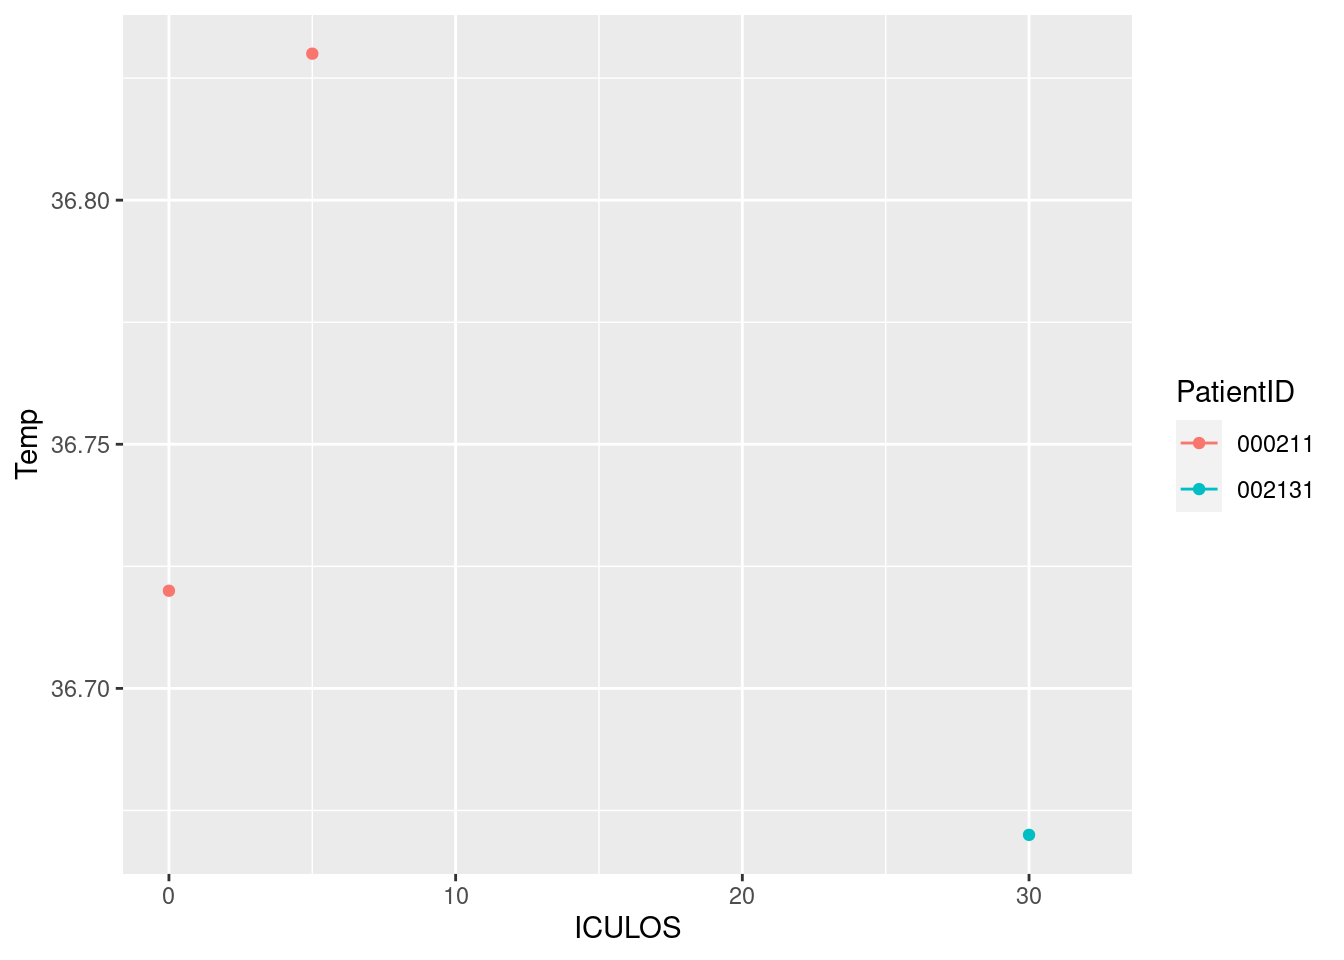
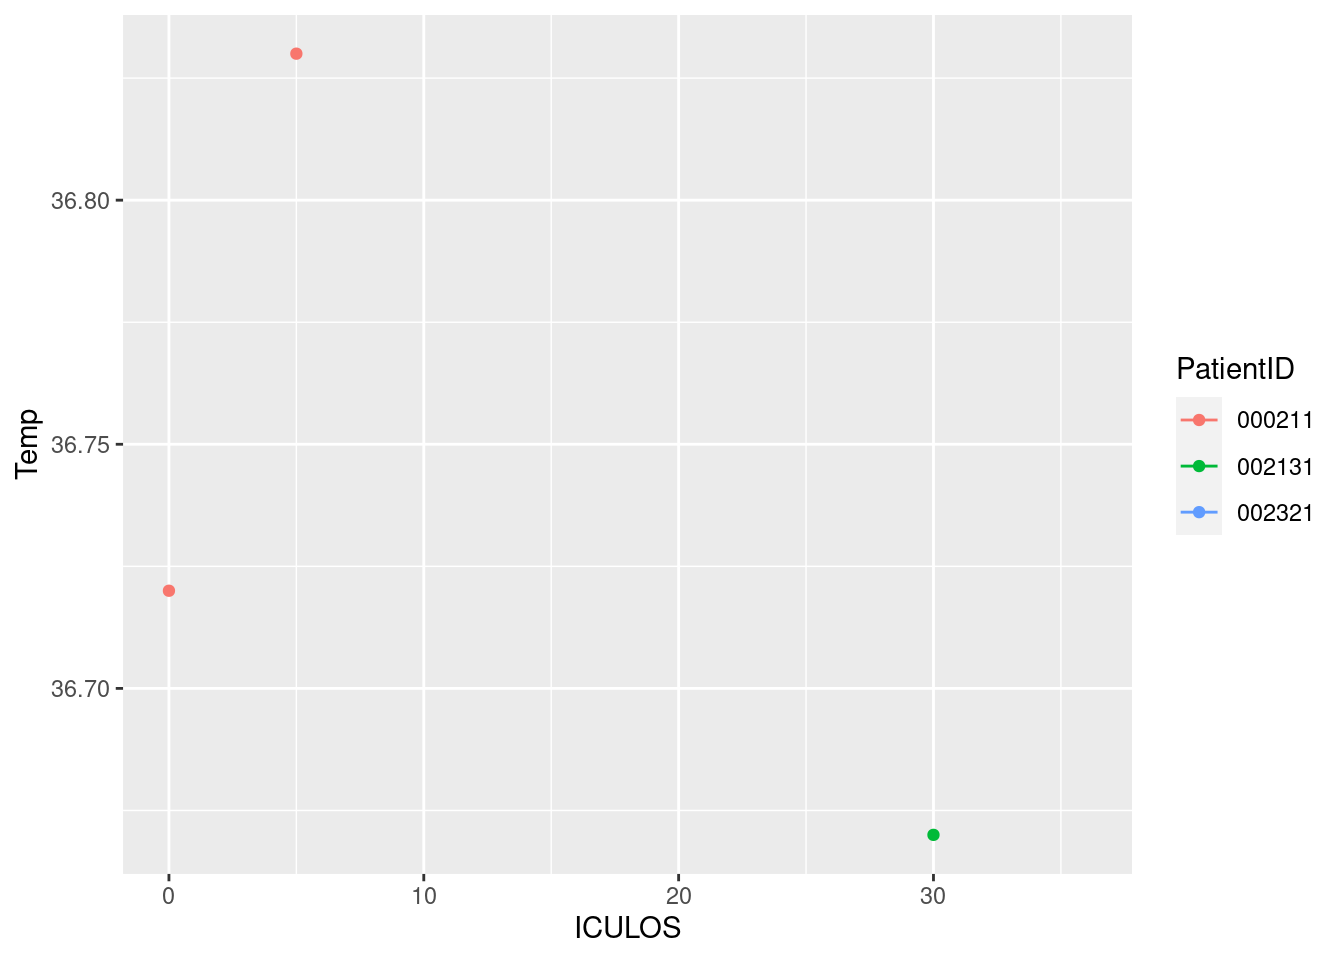
Updated report

diff --git a/a7qmd.html b/a7qmd.html
@@ -80,7 +80,7 @@ ul.task-list li input[type="checkbox"] {
 <h2 class="anchored" data-anchor-id="current-date-and-time">Current date and time</h2>
 <div class="cell">
 <div class="cell-output cell-output-stdout">
-<pre><code>[1] "2023-04-11 04:19:30 UTC"</code></pre>
+<pre><code>[1] "2023-04-11 05:16:00 UTC"</code></pre>
 </div>
 </div>
 </section>
@@ -109,6 +109,12 @@ ul.task-list li input[type="checkbox"] {
 <td style="text-align: right;">81</td>
 <td style="text-align: right;">NA</td>
 <td style="text-align: right;">15</td>
+</tr>
+<tr class="odd">
+<td style="text-align: left;">002321</td>
+<td style="text-align: right;">57</td>
+<td style="text-align: right;">NA</td>
+<td style="text-align: right;">11</td>
 </tr>
 </tbody>
 </table>
@@ -164,7 +170,7 @@ ul.task-list li input[type="checkbox"] {
 <tr class="even">
 <td style="text-align: left;">000525</td>
 <td style="text-align: right;">0</td>
-<td style="text-align: right;">-0.5</td>
+<td style="text-align: right;">-0.50</td>
 <td style="text-align: right;">1</td>
 </tr>
 <tr class="odd">
@@ -182,20 +188,20 @@ ul.task-list li input[type="checkbox"] {
 <tr class="odd">
 <td style="text-align: left;">000878</td>
 <td style="text-align: right;">3</td>
-<td style="text-align: right;">0.0</td>
+<td style="text-align: right;">0.00</td>
 <td style="text-align: right;">-1</td>
 </tr>
 <tr class="even">
 <td style="text-align: left;">000939</td>
-<td style="text-align: right;">-3</td>
+<td style="text-align: right;">3</td>
 <td style="text-align: right;">NA</td>
-<td style="text-align: right;">-1</td>
+<td style="text-align: right;">5</td>
 </tr>
 <tr class="odd">
 <td style="text-align: left;">001080</td>
-<td style="text-align: right;">-12</td>
 <td style="text-align: right;">NA</td>
-<td style="text-align: right;">-4</td>
+<td style="text-align: right;">NA</td>
+<td style="text-align: right;">NA</td>
 </tr>
 <tr class="even">
 <td style="text-align: left;">001200</td>
@@ -212,7 +218,7 @@ ul.task-list li input[type="checkbox"] {
 <tr class="even">
 <td style="text-align: left;">001708</td>
 <td style="text-align: right;">3</td>
-<td style="text-align: right;">0.1</td>
+<td style="text-align: right;">0.10</td>
 <td style="text-align: right;">-2</td>
 </tr>
 <tr class="odd">
@@ -223,9 +229,9 @@ ul.task-list li input[type="checkbox"] {
 </tr>
 <tr class="even">
 <td style="text-align: left;">001842</td>
-<td style="text-align: right;">1</td>
+<td style="text-align: right;">-4</td>
 <td style="text-align: right;">NA</td>
-<td style="text-align: right;">2</td>
+<td style="text-align: right;">-9</td>
 </tr>
 <tr class="odd">
 <td style="text-align: left;">002131</td>
@@ -235,15 +241,15 @@ ul.task-list li input[type="checkbox"] {
 </tr>
 <tr class="even">
 <td style="text-align: left;">002248</td>
-<td style="text-align: right;">2</td>
+<td style="text-align: right;">1</td>
 <td style="text-align: right;">NA</td>
 <td style="text-align: right;">NA</td>
 </tr>
 <tr class="odd">
 <td style="text-align: left;">002321</td>
-<td style="text-align: right;">2</td>
+<td style="text-align: right;">3</td>
 <td style="text-align: right;">NA</td>
-<td style="text-align: right;">0</td>
+<td style="text-align: right;">-1</td>
 </tr>
 <tr class="even">
 <td style="text-align: left;">002434</td>
@@ -253,9 +259,9 @@ ul.task-list li input[type="checkbox"] {
 </tr>
 <tr class="odd">
 <td style="text-align: left;">002572</td>
-<td style="text-align: right;">-1</td>
+<td style="text-align: right;">1</td>
 <td style="text-align: right;">NA</td>
-<td style="text-align: right;">0</td>
+<td style="text-align: right;">-1</td>
 </tr>
 <tr class="even">
 <td style="text-align: left;">002738</td>
@@ -265,15 +271,15 @@ ul.task-list li input[type="checkbox"] {
 </tr>
 <tr class="odd">
 <td style="text-align: left;">003083</td>
-<td style="text-align: right;">0</td>
+<td style="text-align: right;">1</td>
 <td style="text-align: right;">NA</td>
-<td style="text-align: right;">0</td>
+<td style="text-align: right;">1</td>
 </tr>
 <tr class="even">
 <td style="text-align: left;">003684</td>
-<td style="text-align: right;">-12</td>
+<td style="text-align: right;">12</td>
 <td style="text-align: right;">NA</td>
-<td style="text-align: right;">2</td>
+<td style="text-align: right;">8</td>
 </tr>
 <tr class="odd">
 <td style="text-align: left;">003690</td>
@@ -291,11 +297,11 @@ ul.task-list li input[type="checkbox"] {
 <td style="text-align: left;">003740</td>
 <td style="text-align: right;">-4</td>
 <td style="text-align: right;">NA</td>
-<td style="text-align: right;">9</td>
+<td style="text-align: right;">-8</td>
 </tr>
 <tr class="even">
 <td style="text-align: left;">003777</td>
-<td style="text-align: right;">19</td>
+<td style="text-align: right;">-6</td>
 <td style="text-align: right;">NA</td>
 <td style="text-align: right;">0</td>
 </tr>
@@ -314,14 +320,14 @@ ul.task-list li input[type="checkbox"] {
 <tr class="odd">
 <td style="text-align: left;">004476</td>
 <td style="text-align: right;">0</td>
-<td style="text-align: right;">0.0</td>
+<td style="text-align: right;">0.00</td>
 <td style="text-align: right;">-1</td>
 </tr>
 <tr class="even">
 <td style="text-align: left;">004616</td>
-<td style="text-align: right;">0</td>
+<td style="text-align: right;">6</td>
 <td style="text-align: right;">NA</td>
-<td style="text-align: right;">-2</td>
+<td style="text-align: right;">4</td>
 </tr>
 <tr class="odd">
 <td style="text-align: left;">005016</td>
@@ -343,33 +349,33 @@ ul.task-list li input[type="checkbox"] {
 </tr>
 <tr class="even">
 <td style="text-align: left;">005785</td>
-<td style="text-align: right;">-5</td>
+<td style="text-align: right;">15</td>
 <td style="text-align: right;">NA</td>
 <td style="text-align: right;">2</td>
 </tr>
 <tr class="odd">
 <td style="text-align: left;">006938</td>
-<td style="text-align: right;">6</td>
-<td style="text-align: right;">0.0</td>
+<td style="text-align: right;">5</td>
+<td style="text-align: right;">0.10</td>
 <td style="text-align: right;">NA</td>
 </tr>
 <tr class="even">
 <td style="text-align: left;">007154</td>
-<td style="text-align: right;">2</td>
+<td style="text-align: right;">-1</td>
 <td style="text-align: right;">NA</td>
-<td style="text-align: right;">3</td>
+<td style="text-align: right;">-3</td>
 </tr>
 <tr class="odd">
 <td style="text-align: left;">007365</td>
 <td style="text-align: right;">-1</td>
-<td style="text-align: right;">-0.2</td>
+<td style="text-align: right;">-0.20</td>
 <td style="text-align: right;">-1</td>
 </tr>
 <tr class="even">
 <td style="text-align: left;">008070</td>
-<td style="text-align: right;">-2</td>
+<td style="text-align: right;">4</td>
 <td style="text-align: right;">NA</td>
-<td style="text-align: right;">0</td>
+<td style="text-align: right;">3</td>
 </tr>
 <tr class="odd">
 <td style="text-align: left;">008496</td>
@@ -385,8 +391,8 @@ ul.task-list li input[type="checkbox"] {
 </tr>
 <tr class="odd">
 <td style="text-align: left;">008652</td>
-<td style="text-align: right;">9</td>
-<td style="text-align: right;">0.3</td>
+<td style="text-align: right;">6</td>
+<td style="text-align: right;">-0.35</td>
 <td style="text-align: right;">0</td>
 </tr>
 <tr class="even">
@@ -397,15 +403,15 @@ ul.task-list li input[type="checkbox"] {
 </tr>
 <tr class="odd">
 <td style="text-align: left;">008907</td>
-<td style="text-align: right;">15</td>
+<td style="text-align: right;">-7</td>
 <td style="text-align: right;">NA</td>
-<td style="text-align: right;">1</td>
+<td style="text-align: right;">3</td>
 </tr>
 <tr class="even">
 <td style="text-align: left;">008916</td>
 <td style="text-align: right;">NA</td>
 <td style="text-align: right;">NA</td>
-<td style="text-align: right;">2</td>
+<td style="text-align: right;">NA</td>
 </tr>
 <tr class="odd">
 <td style="text-align: left;">009179</td>
@@ -433,15 +439,15 @@ ul.task-list li input[type="checkbox"] {
 </tr>
 <tr class="odd">
 <td style="text-align: left;">009343</td>
-<td style="text-align: right;">-2</td>
+<td style="text-align: right;">2</td>
 <td style="text-align: right;">NA</td>
-<td style="text-align: right;">0</td>
+<td style="text-align: right;">-1</td>
 </tr>
 <tr class="even">
 <td style="text-align: left;">009453</td>
-<td style="text-align: right;">1</td>
+<td style="text-align: right;">5</td>
 <td style="text-align: right;">NA</td>
-<td style="text-align: right;">0</td>
+<td style="text-align: right;">-2</td>
 </tr>
 </tbody>
 </table>
